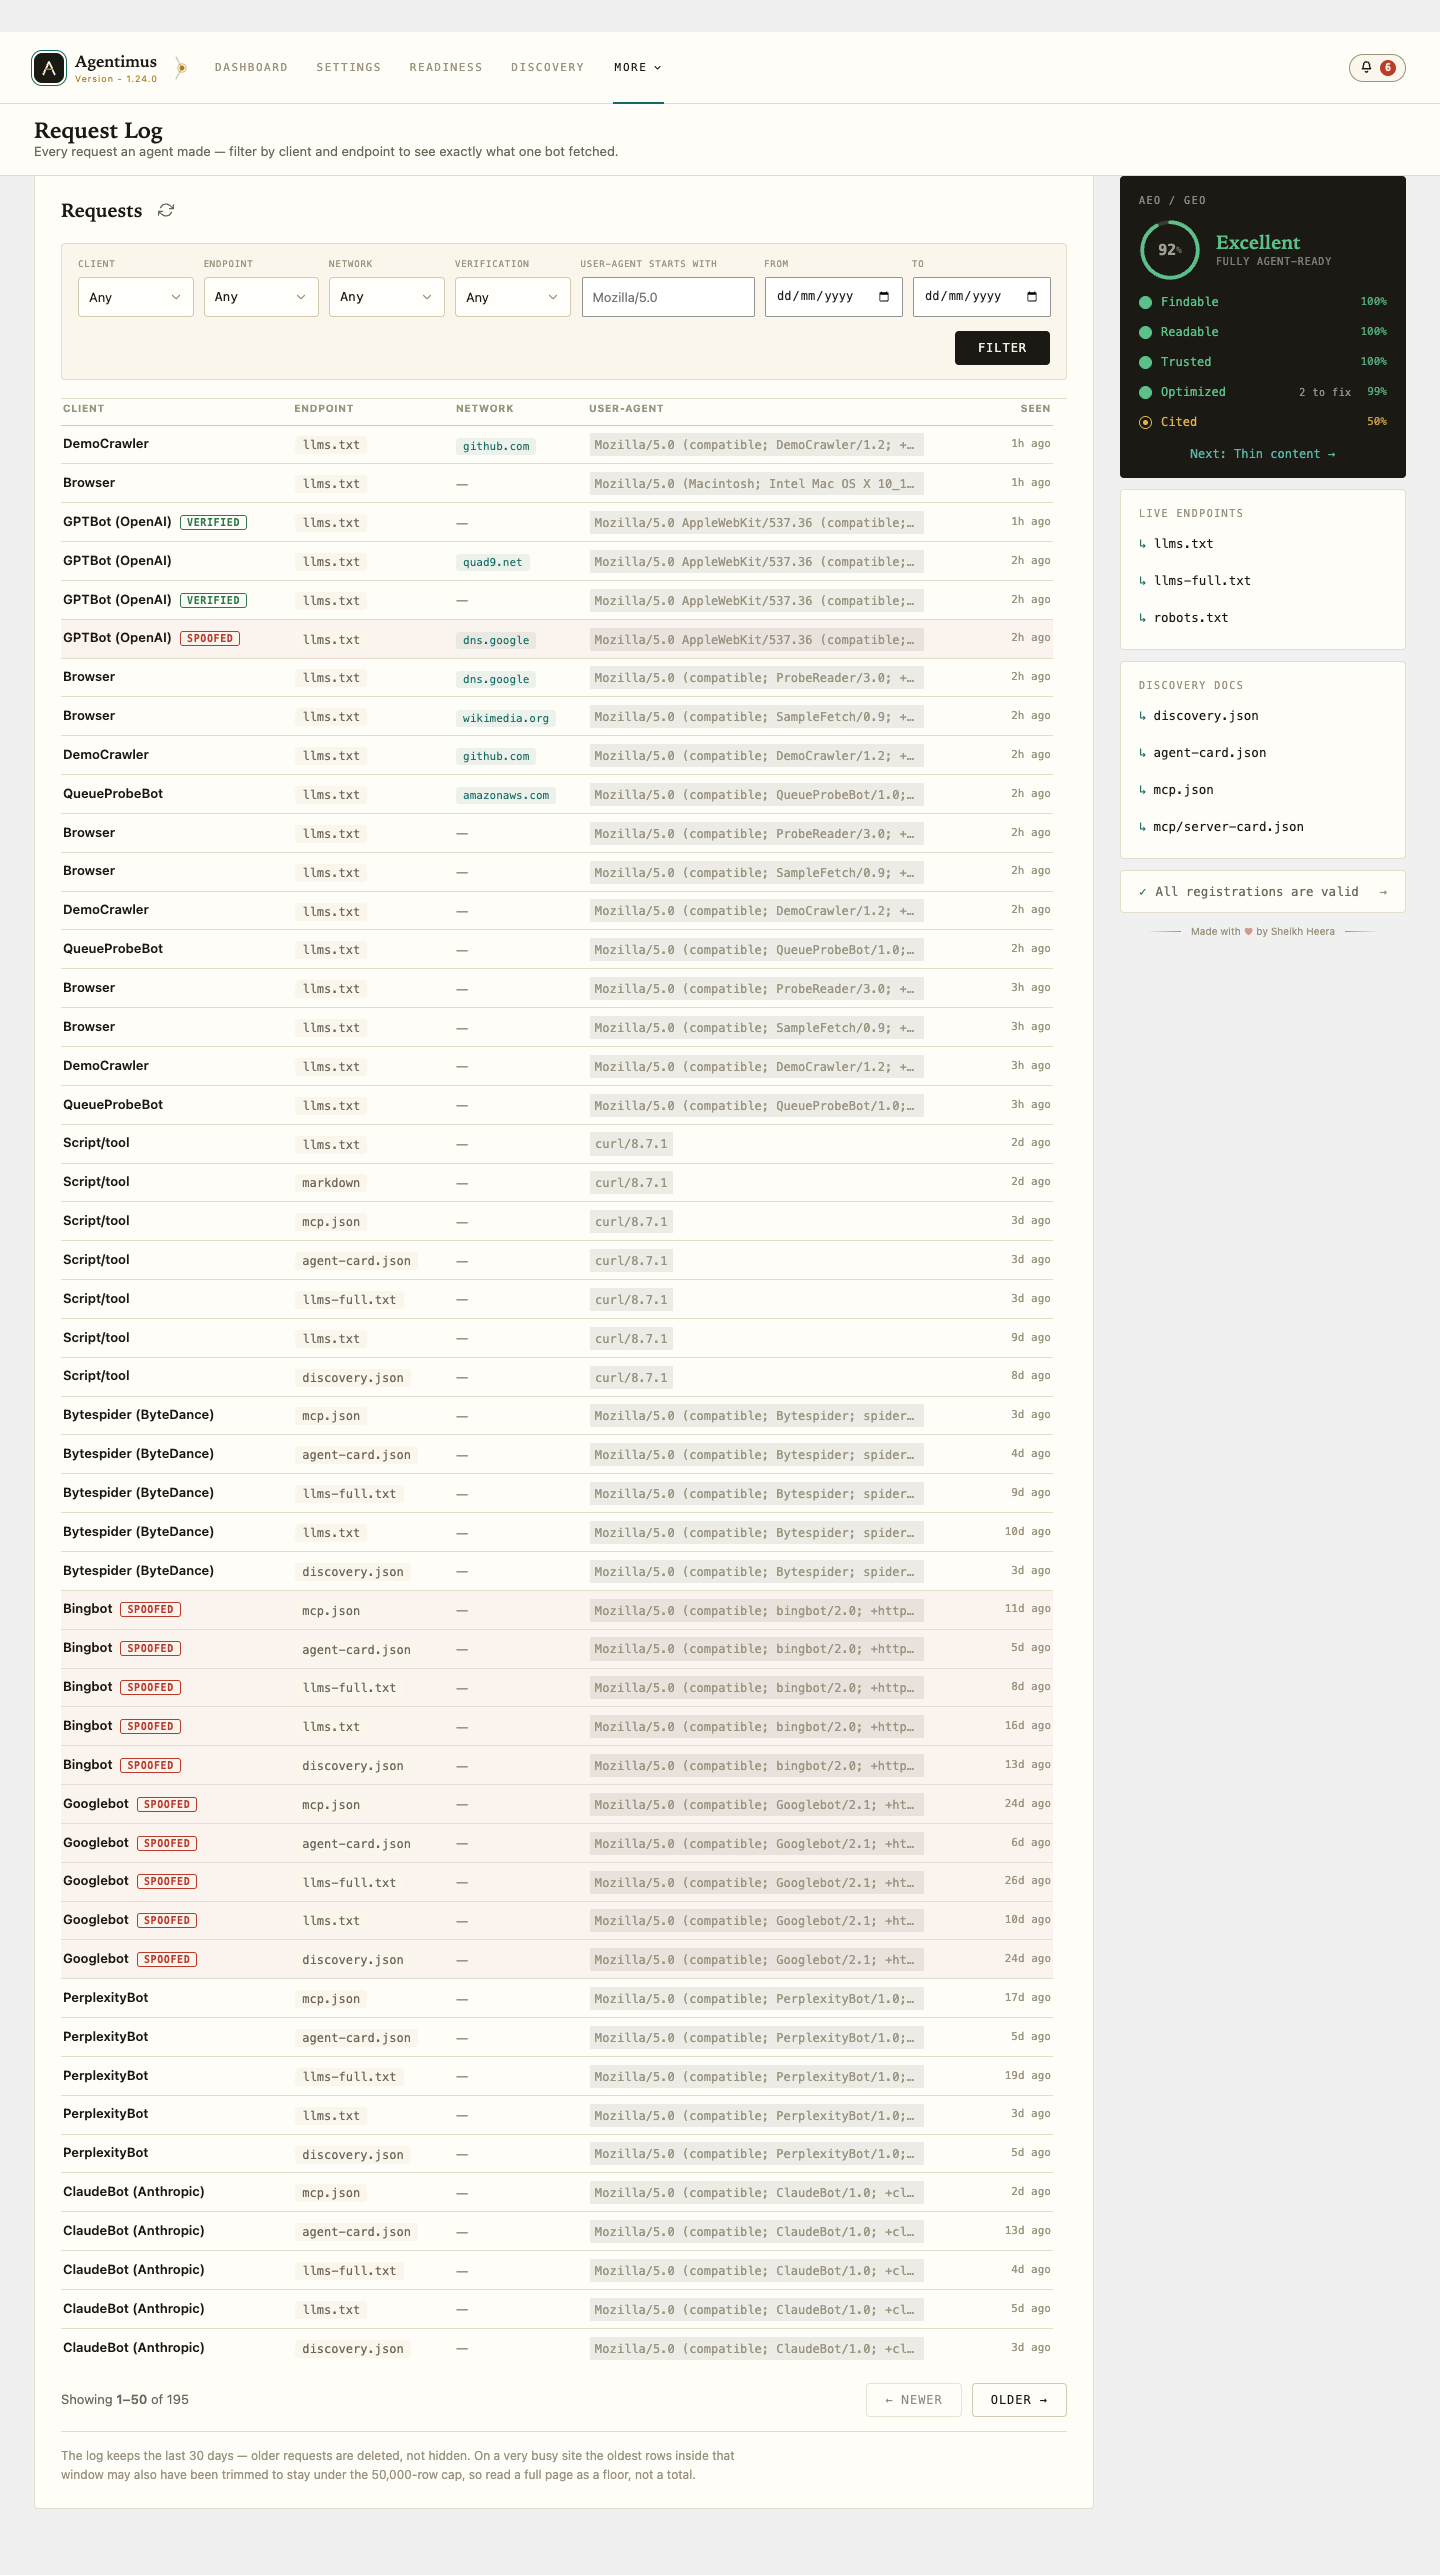
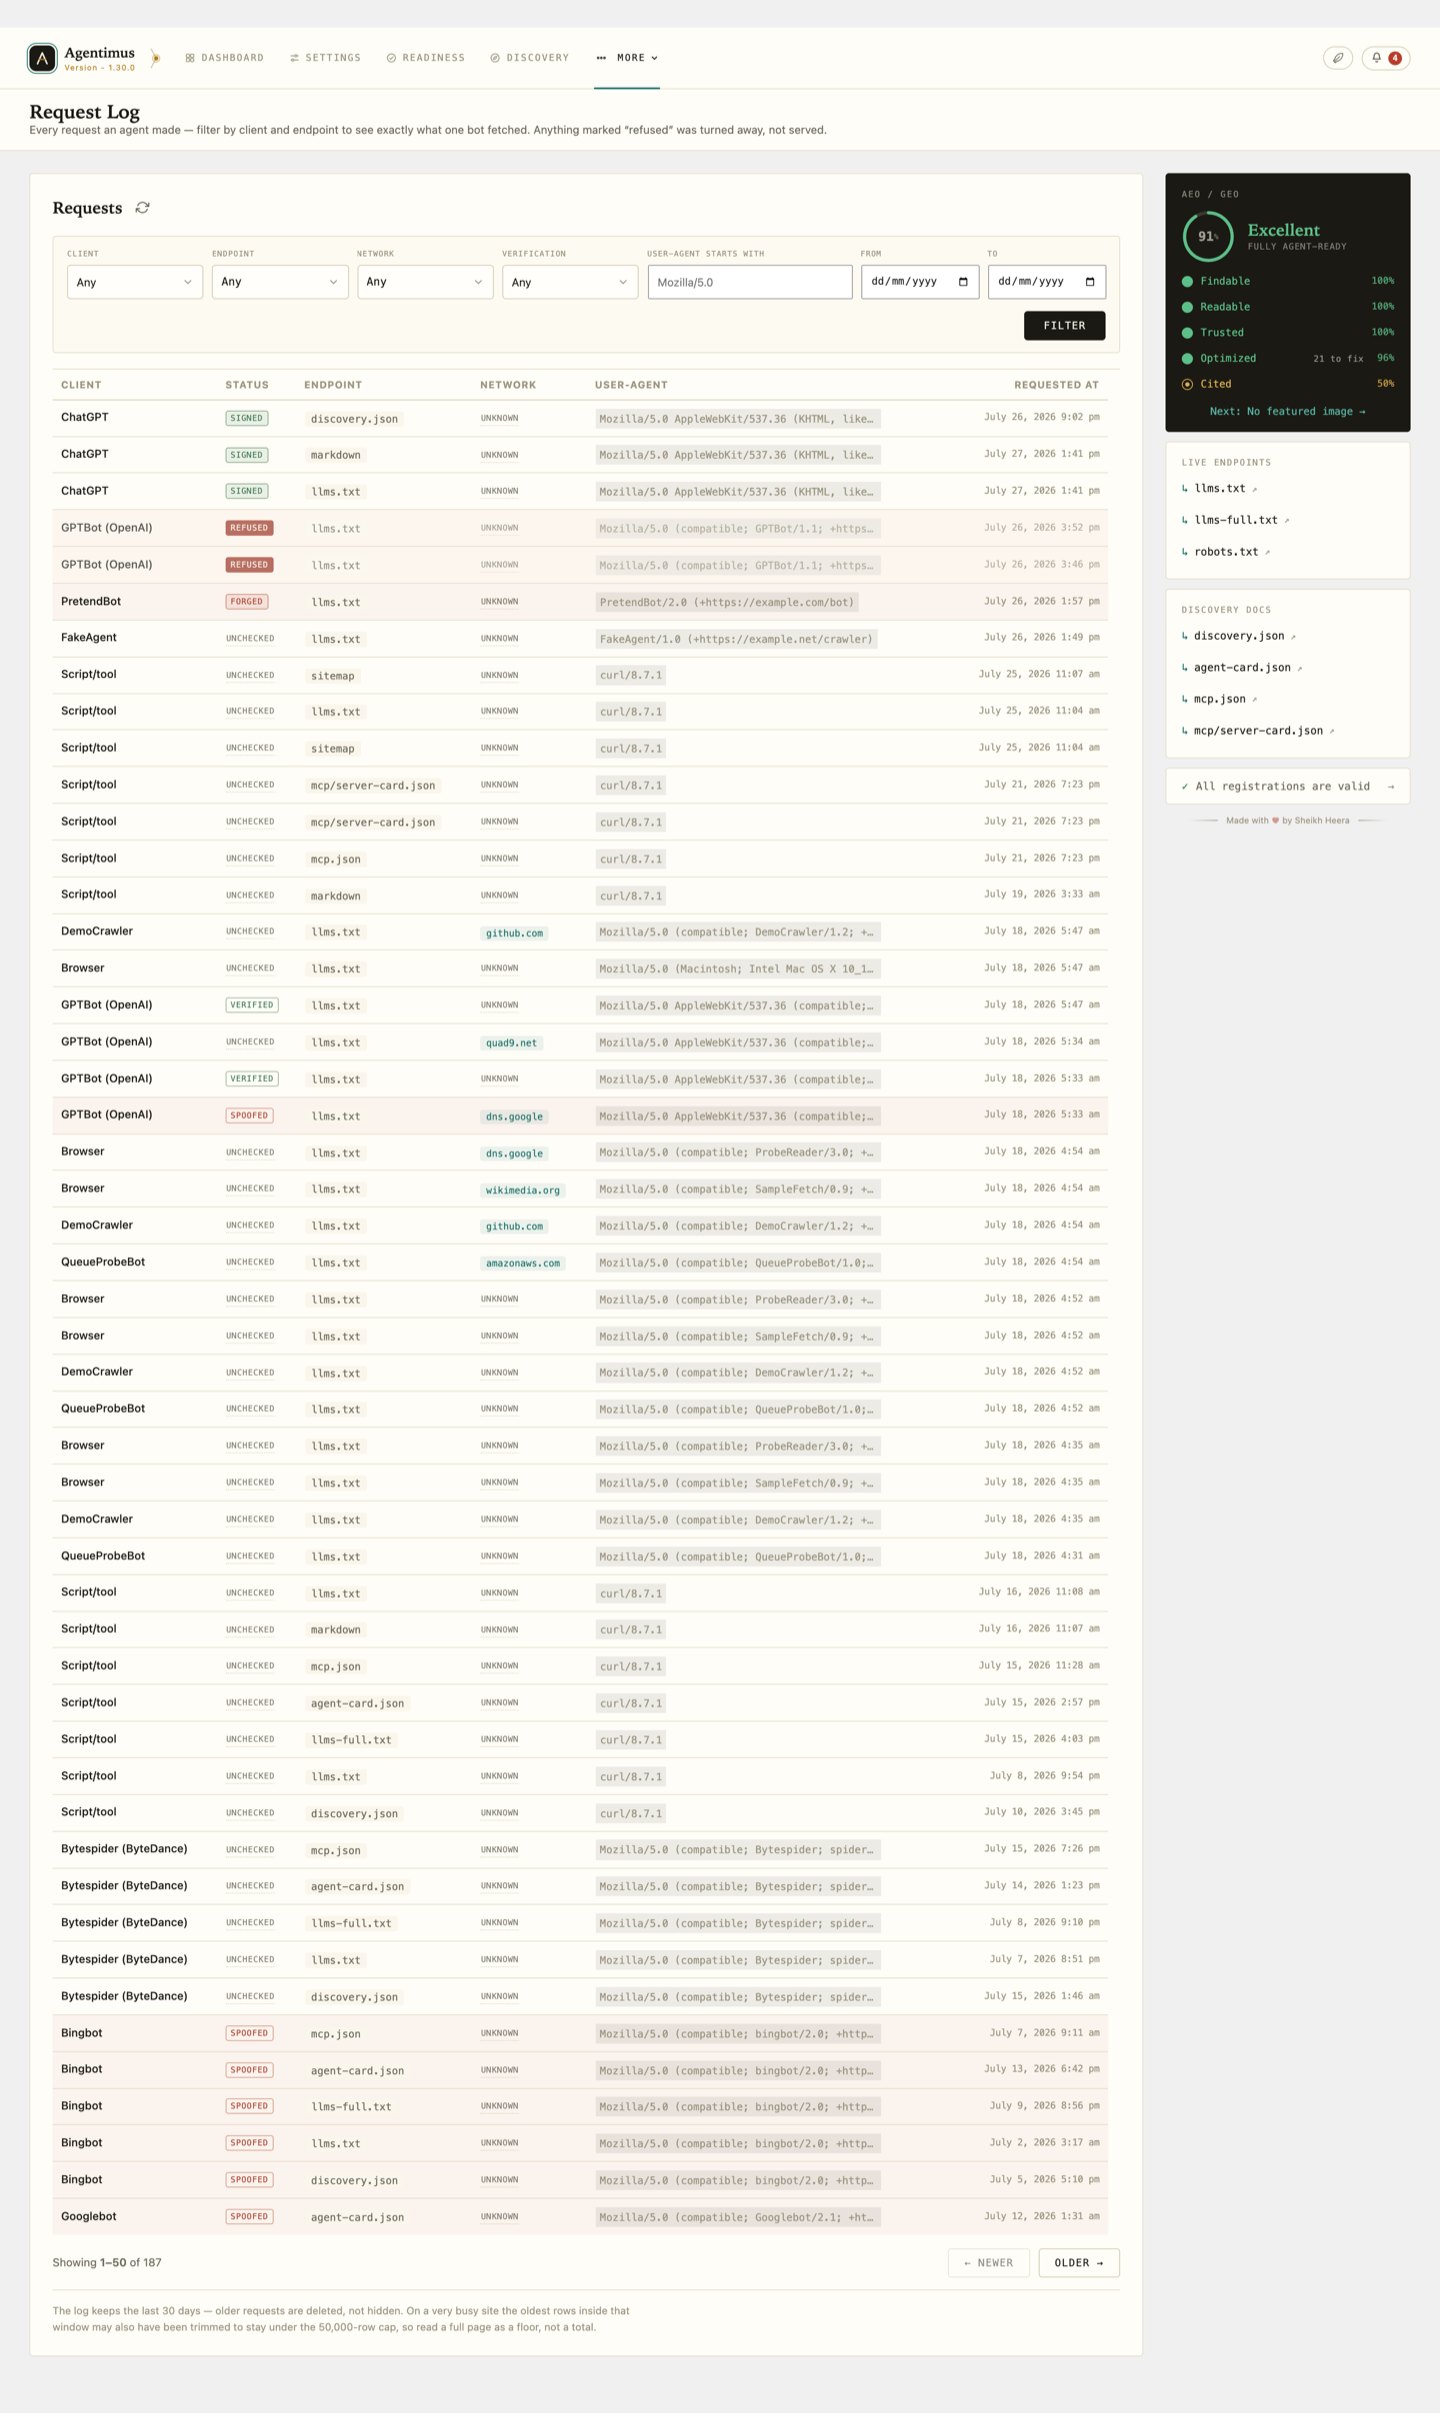
release: 1.30.0
Web Bot Auth — signed agents verified locally, forged signatures
refused and recorded; the Link-to-your-own-posts editor box with its
read-only MCP twin; refused impostors on the record (a refusal is not
a read); Agent Access as a card feed with an honest header; the
Request Log's one-mark Status column. Screenshots 6, 14 and 17
re-captured at 1.30.0 (review queue with the forged-signature card,
Request Log with the Status spread, the Agent Access feed).

diff --git a/inc/Admin.php b/inc/Admin.php
@@ -654,20 +654,20 @@ final class Admin {
 			'show'    => $show,
 			'items'   => array(
 				array(
-					'title' => 'With an SEO plugin — or instead of one',
-					'text'  => 'No SEO plugin? Agentimus now covers the search basics itself: per-page SEO titles, social share cards (with a default share image you pick in Settings), canonical links, and a sitemap that carries last-changed dates. Running Yoast, Rank Math, SEOPress, AIOSEO or The SEO Framework? Nothing changes — Agentimus detects it, steps aside on every overlapping surface, and the readiness report names who is doing what. The switch is automatic, both directions.',
+					'title' => 'Signed agents, verified mathematically',
+					'text'  => 'Some AI agents now cryptographically sign their requests — Google’s agent and OpenAI’s already do. With Verify bot identities on, Agentimus checks the signature right on your own server: genuine agents earn a “signed” mark in the Request Log, a forged signature is flagged for review — and, with blocking on, refused. Unsigned crawlers lose nothing: signing is extra proof, never a requirement.',
 				),
 				array(
-					'title' => 'The weekly email arrives when you say',
-					'text'  => 'Settings → Weekly email gained a day-and-time picker — the note lands on the day and hour you choose, your site’s clock, instead of always Monday morning.',
+					'title' => 'Link to your own posts',
+					'text'  => 'A new editor box suggests which of your own posts the one you’re writing should link to — found from your topics, categories and text, no AI needed — and inserts the link at a real phrase with one click, as an ordinary edit you can undo. Connected agents get the same suggestions through a read-only MCP tool.',
 				),
 				array(
-					'title' => 'The review queue answers faster and explains itself',
-					'text'  => 'Blocking or allowing a client updates the menu’s count bubble the moment you click. Cards with no one-click Allow/Block now say why — a real search engine’s name can’t be safely blocked by name — and the dashboard’s downward trend arrows wear a calm amber instead of error-red.',
+					'title' => 'A refusal is never silent',
+					'text'  => 'Requests turned away at your AI endpoints — proven impostors, forged signatures — are now recorded: a “refused” mark in the Request Log, counted toward the review queue and the weekly email’s impostors, and toward none of your read totals. A refusal is not a read.',
 				),
 				array(
-					'title' => 'Coming from 1.27 or earlier?',
-					'text'  => 'Then 1.28 is new to you too: a short weekly email about what AI did on your site — quiet weeks send nothing, one-click stop inside every email — and the review queue’s count on the admin menu from every screen. The full changelog on this card tells that story.',
+					'title' => 'Coming from 1.28 or earlier?',
+					'text'  => 'Then 1.29 is new to you too: with no SEO plugin active, Agentimus covers the search basics itself — titles, share cards, canonicals, a dated sitemap — and steps aside the moment one appears. Plus the weekly email’s day-and-time picker. The full changelog on this card tells that story.',
 				),
 			),
 		);

diff --git a/agentimus.php b/agentimus.php
@@ -3,7 +3,7 @@
  * Plugin Name:       Agentimus
  * Plugin URI:        https://github.com/heera/agentimus
  * Description:       Make your site agent-ready (llms.txt, markdown, JSON-LD, a /.well-known discovery document, AI-crawl controls, agent-activity log) AND let the AI tools you use operate it over MCP — read your data and, opt-in, draft/edit/publish posts. Lightweight, no SEO bloat.
- * Version:           1.29.0
+ * Version:           1.30.0
  * Requires at least: 6.0
  * Requires PHP:      7.4
  * Author:            Sheikh Heera
@@ -19,7 +19,7 @@ namespace Agentimus;
 
 defined( 'ABSPATH' ) || exit;
 
-define( 'AGENTIMUS_VERSION', '1.29.0' );
+define( 'AGENTIMUS_VERSION', '1.30.0' );
 define( 'AGENTIMUS_FILE', __FILE__ );
 define( 'AGENTIMUS_DIR', plugin_dir_path( __FILE__ ) );
 define( 'AGENTIMUS_URL', plugin_dir_url( __FILE__ ) );

diff --git a/CHANGELOG.md b/CHANGELOG.md
@@ -2,6 +2,15 @@
 
 All notable changes to Agentimus. The most recent releases also appear in the plugin's `readme.txt` and on the WordPress.org listing; the complete history lives here.
 
+## 1.30.0
+* New — **Web Bot Auth: cryptographically signed agents, verified locally.** Some agents now sign every request (RFC 9421 HTTP Message Signatures, `web-bot-auth` profile) — Google's agent and OpenAI's already do. `BotSignature` checks the math on the site's own server: strict, narrow parsing of exactly the profile senders emit, Ed25519 through the same sodium primitive the discovery Signer already uses, single-use nonces remembered against replay. The only fetch in the feature is the signer's public-key directory (`/.well-known/http-message-signatures-directory` on the operator's own domain — https-only origins, SSRF-gated, cached for hours with a brief negative cache and a per-minute budget). Fail-open by doctrine: unsigned earns and loses nothing, inconclusive (an unreachable directory, a rotation-lagged key) is served; only failed math claiming a recognised signer condemns — and a signature verdict outranks every claim-based one in the activity record. It rides the existing **Verify bot identities** switch, and enforcement checks it first (cheapest and strongest): a forged signature is refused under the spoofed-agents block, while a verified known signer is exempt from the legacy-device heuristic but never from the owner's denylist. Recognised signers — Google Agent (`agent.bot.goog`), OpenAI agent (`chatgpt.com`) — are filterable via `agentimus_known_signature_agents`. The site already spoke the other direction (signed discovery documents, its own key at the same well-known path), so Agentimus now verifies who's asking and proves what it serves.
+* New — **Link to your own posts.** An editor box beneath the Search & AI box suggests which of the site's own posts this one should link to. Finding is local and free — shared topics, shared categories and tags, a candidate's title wording in the body, behind a score floor so a single generic word can't fabricate a relationship — capped at three suggestions from a recent-posts pool, and works with no AI provider at all. One optional AI call (through the governed `Assist::generate()` choke point) dresses the result: it picks the anchor phrase and writes the one-line why, behind a verbatim guard — a phrase that doesn't appear word-for-word in the text is discarded for the local pick. Insert is a plain block-editor edit at the phrase's own position (an appended "See also" line when no phrase exists; the classic editor shows the address to copy), so undo is the editor's own and nothing saves until the post does. The MCP twin `suggest-internal-links` is read-only and always takes the local path — agent reads never spend the owner's AI budget. No settings card; the `agentimus_internal_links_enabled` filter removes both surfaces.
+* New — **A refused request is a recorded request.** Turning a proven impostor away used to leave no trace — the request never got far enough to be logged, so the owner's strongest security signal was invisible. The activity table now carries a `refused` flag (schema v6): refused requests appear in the Request Log with a **refused** mark (turned away at the door, served nothing), count toward the review queue and the weekly email's impostors, and are excluded from every read total — a refusal is not a read.
+* Improved — **Agent Access reads as a feed.** The events table became a card feed: the subject as the hero line, the person and their named credential on their own lines, one count pill per card. The header now reports what the watching has actually seen — total events, how many of the available MCP abilities have been used ("8 of 26 abilities used"), and when the last call landed — stacking cleanly on a narrow screen.
+* Improved — **The Request Log says more per row, in the site's own time.** A new **Status** column carries one mark per request — verified, signed, spoofed, forged, refused, unchecked — with the sentence behind it on hover, never a bare dash; a **Requested at** column replaces "seen" (a refused row was requested, not seen in). Every timestamp across the admin now renders through the site's own Settings → General date and time formats, in fixed right-aligned columns, and card headers are Title Case throughout.
+* Improved — **A broken discovery extension breaks only itself.** `Registry::fire()` now isolates each discovery-provider callback: a throwing extension is caught and named in an admin notice while every other provider still contributes, with `do_action` semantics preserved. One faulty plugin no longer empties the discovery documents for everyone behind it.
+* Disclosure — with **Verify bot identities** on, when a request arrives carrying a Web Bot Auth signature the plugin also fetches that operator's public key file so the signature can be checked locally (readme *External services* updated). Nothing about the site is ever sent.
+
 ## 1.29.0
 * New — **The dual mode: with an SEO plugin, or instead of one.** A single runtime resolver (`SeoContext`) decides which of two modes the site is in. **Solo** (no SEO plugin active): Agentimus emits per-page SEO titles (with a per-post override field in the editor's Search & AI box), Open Graph / social share cards fed by the AI description and an image chain of featured image → a default share image picked in Settings → the entity image, and canonical links where core leaves gaps — all as a gap-only head buffer that never duplicates what a theme already prints. Its sitemap is promoted over core's (it carries last-modified dates core's own omits) with exactly one cache flush per mode flip. **Coexist** (Yoast, Rank Math, SEOPress, AIOSEO or The SEO Framework active): every overlapping surface stands down instantly — titles, cards, canonicals, sitemap advertising — and the surfaces say so: a readiness row credits the named plugin, a dashboard companion card explains the division of labour, and the setup wizard's summary words itself around the detected mode. Detection is runtime, so activating or deactivating an SEO plugin flips the mode with no setting to remember.
 * New — **The weekly email's send slot is the owner's.** A day-and-time picker in Settings → Weekly email (site clock, hour labels in the site's own time format). The schedule reschedules on save and self-heals: a `weekly` cron recurrence repeats in UTC, so a DST change used to drift the send an hour off the site-local slot — the boot-time sync now notices and re-plants it.
